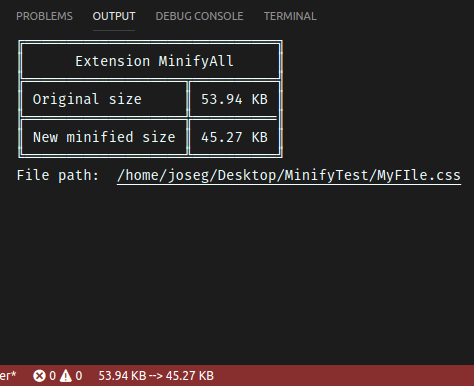
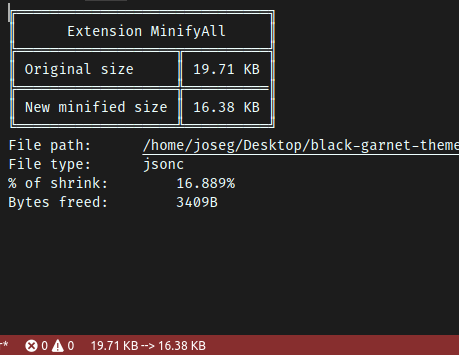
V0.6.1 added other configuration for disabling status bar + improved status bar output

Changed region(s): [[0.0, 0.0, 1.0, 0.5887], [0.0, 0.9296, 0.4575, 0.9915]]

diff --git a/main.js b/main.js
@@ -28,8 +28,10 @@ vscode.commands.registerCommand('extension.MinifyAllStatus', statusBarInfo);
 vscode.workspace.onDidSaveTextDocument(() => getNewSize());
 const statusBarItem = vscode.window.createStatusBarItem(vscode.StatusBarAlignment.Left, 1);
 
-const userMinifyAllSettings = vscode.workspace.getConfiguration('MinifyAll')
-const hexDisabled = userMinifyAllSettings.get('disableHexadecimalShortener')
+const userMinifyAllSettings = vscode.workspace.getConfiguration('MinifyAll');
+const hexDisabled = userMinifyAllSettings.get('disableHexadecimalShortener');
+const statusDisabled = userMinifyAllSettings.get('disableStatusbarInformation')
+
 
 /**
  * getNewSize gets the new size of the
@@ -39,10 +41,12 @@ const hexDisabled = userMinifyAllSettings.get('disableHexadecimalShortener')
 function getNewSize() {
 	const newFilepath = vscode.window.activeTextEditor.document.fileName
 	const newSize = FileSaver.statSync(newFilepath).size
-	createStatusBar(originalSize, newSize);
-	vscode.workspace.onDidChangeConfiguration(() => statusBarItem.hide());
-	vscode.workspace.onDidChangeWorkspaceFolders(() => statusBarItem.hide());
-	vscode.workspace.onDidCloseTextDocument(() => statusBarItem.hide());
+	if (statusDisabled == false) {
+		createStatusBar(originalSize, newSize);
+		vscode.workspace.onDidChangeConfiguration(() => statusBarItem.hide());
+		vscode.workspace.onDidChangeWorkspaceFolders(() => statusBarItem.hide());
+		vscode.workspace.onDidCloseTextDocument(() => statusBarItem.hide());
+	}
 }
 
 /**
@@ -72,12 +76,14 @@ function statusBarInfo() {
 	oc.appendLine("╔══════════════════════════════╗");
 	oc.appendLine("║      Extension MinifyAll     ║	")
 	oc.appendLine("╠═══════════════════╦══════════╣");
-	oc.appendLine("║ Original size     ║ " + sizeTransform.transformSize(originalSize) + "  ║");
+	oc.appendLine("║ Original size     ║ " + sizeTransform.transformSize(originalSize) + " ║");
 	oc.appendLine("╠═══════════════════╬══════════║");
-	oc.appendLine("║ New minified size ║ " + sizeTransform.transformSize(FileSaver.statSync(vscode.window.activeTextEditor.document.fileName).size) + "  ║");
+	oc.appendLine("║ New minified size ║ " + sizeTransform.transformSize(FileSaver.statSync(vscode.window.activeTextEditor.document.fileName).size) + " ║");
 	oc.appendLine("╚═══════════════════╩══════════╝");
-	oc.appendLine("File path:\t" + window.activeTextEditor.document.fileName);
-	oc.appendLine("File type:\t" + window.activeTextEditor.document.languageId);
+	oc.appendLine("File path:\t\t" + window.activeTextEditor.document.fileName);
+	oc.appendLine("File type:\t\t" + window.activeTextEditor.document.languageId);
+	oc.appendLine("% of shrink:\t\t" + (100 - ((FileSaver.statSync(vscode.window.activeTextEditor.document.fileName).size * 100) / originalSize)).toFixed(3) + "%");
+	oc.appendLine("Bytes freed:\t\t" + (originalSize - (FileSaver.statSync(vscode.window.activeTextEditor.document.fileName).size)) + "B");
 	oc.show();
 }
 

diff --git a/README.md b/README.md
@@ -51,7 +51,7 @@ How does it look? Look at our **[Screenshots](Screenshots/)**
 
 - The output that you will find after you save your document:
 
-<img src="https://i.imgur.com/vRF9IUQ.png" alt="output" title="output" style="border-radius:15px; box-shadow: 6px 6px  #282829; max-height: 500px; max-width:500px;margin-left: auto; margin-right:auto;display: block;margin-left: auto;margin-right:auto;width:50%;"/>
+<img src="https://i.imgur.com/oYztqCE.png" alt="output" title="output" style="border-radius:15px; box-shadow: 6px 6px  #282829; max-height: 500px; max-width:500px;margin-left: auto; margin-right:auto;display: block;margin-left: auto;margin-right:auto;width:50%;"/>
 
 - The first and default command that replaces the actual code with the minified one:
 
@@ -181,7 +181,13 @@ How does it look? Look at our **[Screenshots](Screenshots/)**
 - If you want MinifyAll to **stop shortening colors**, such as rgb to 3 digit hex, or rgba to hex, or 6 digit hex to 3 digit hex. (*True for disabling hexadecimal shortener*.)
 
 ``` json
-"MinifyAll.disableHexadecimalShortener": true|false,
+"MinifyAll.disableHexadecimalShortener": true|false
+```
+
+- If you want MinifyAll to stop showing a **status bar** with information about the compression after you minify a file. (True for disabling.)
+
+``` json
+"MinifyAll.disableStatusbarInformation": true|false
 ```
 
 ## **Known bugs:** 🛑

diff --git a/CHANGELOG.md b/CHANGELOG.md
@@ -3,6 +3,14 @@
 
 All notable changes to the "minifyall" extension will be documented in this file.
 
+## [0.6.1] - 2019-07-17
+
+### Added
+
+- Configuration for disabling status bar output.
+- More information in the output of the status bar.
+- Changed picture of the documentation of the output in readme.md and in /Screenshots
+
 ## [0.6.0] - 2019-07-17
 
 ### Added
